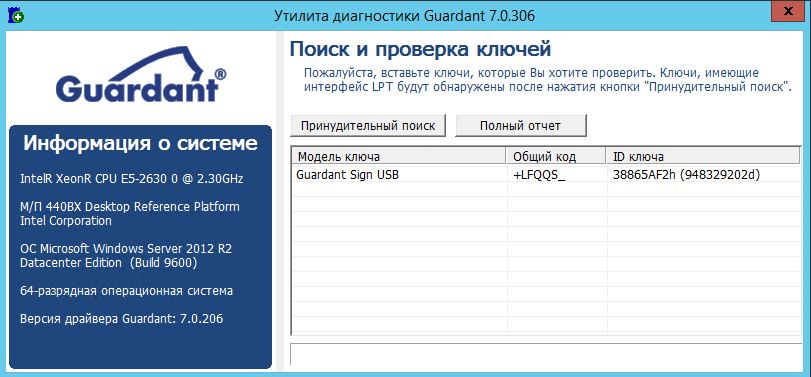
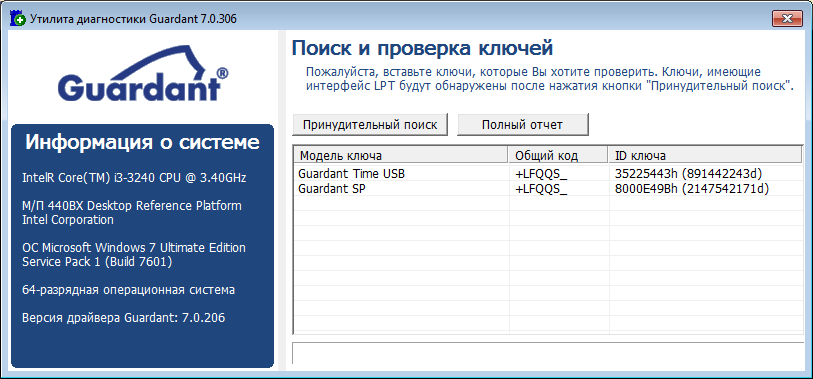
Обновлены скриншоты

Changed region(s): [[0.0, 0.0, 1.0, 1.0], [0.0617, 0.1167, 0.3083, 0.2918]]

diff --git a/licenses/grddiag.md b/licenses/grddiag.md
@@ -8,7 +8,7 @@
 
 ![](../images/guardant-diag-util.png)
 
-Для получения отчёта нажмите кнопку "Полный отчёт", после чего в браузере откроется html-файл с подробным описанием всех ключей, установленных в системе, а также конфигурации системы.
+Для получения отчёта нажмите кнопку "Полный отчёт", после чего в браузере откроется html-файл с подробным описанием всех ключей, установленных в системе, а также конфигурации системы. На рисунке ниже представлен фрагмент отчета:
 
 ![](../images/guardant-diag-report.png)
 
